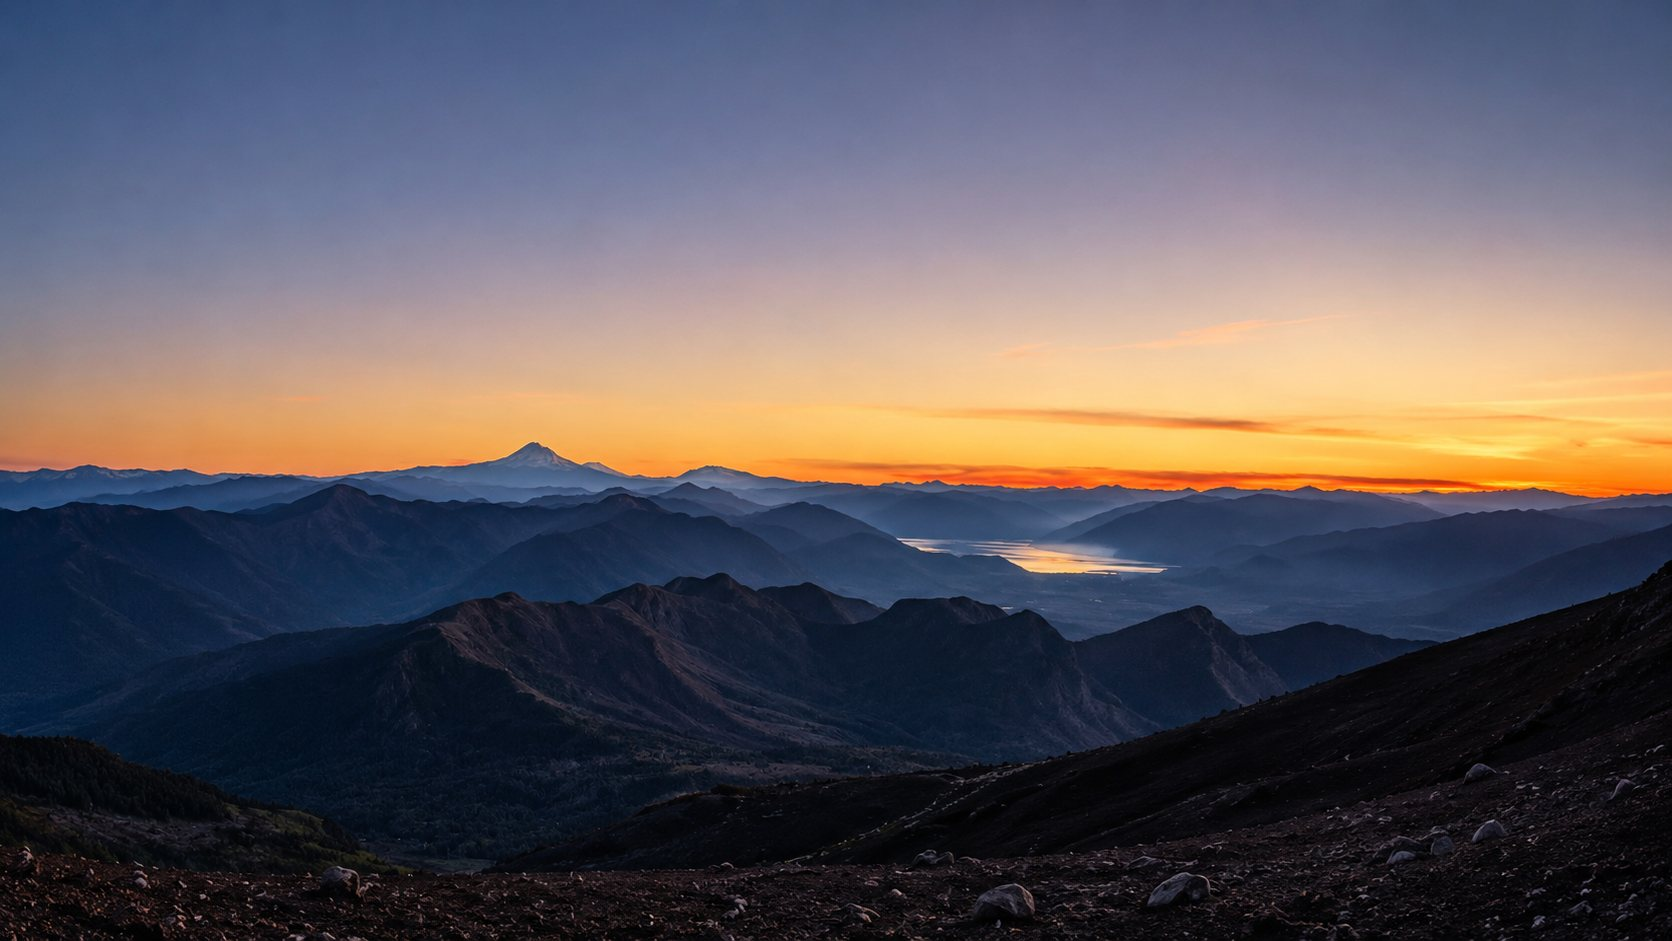
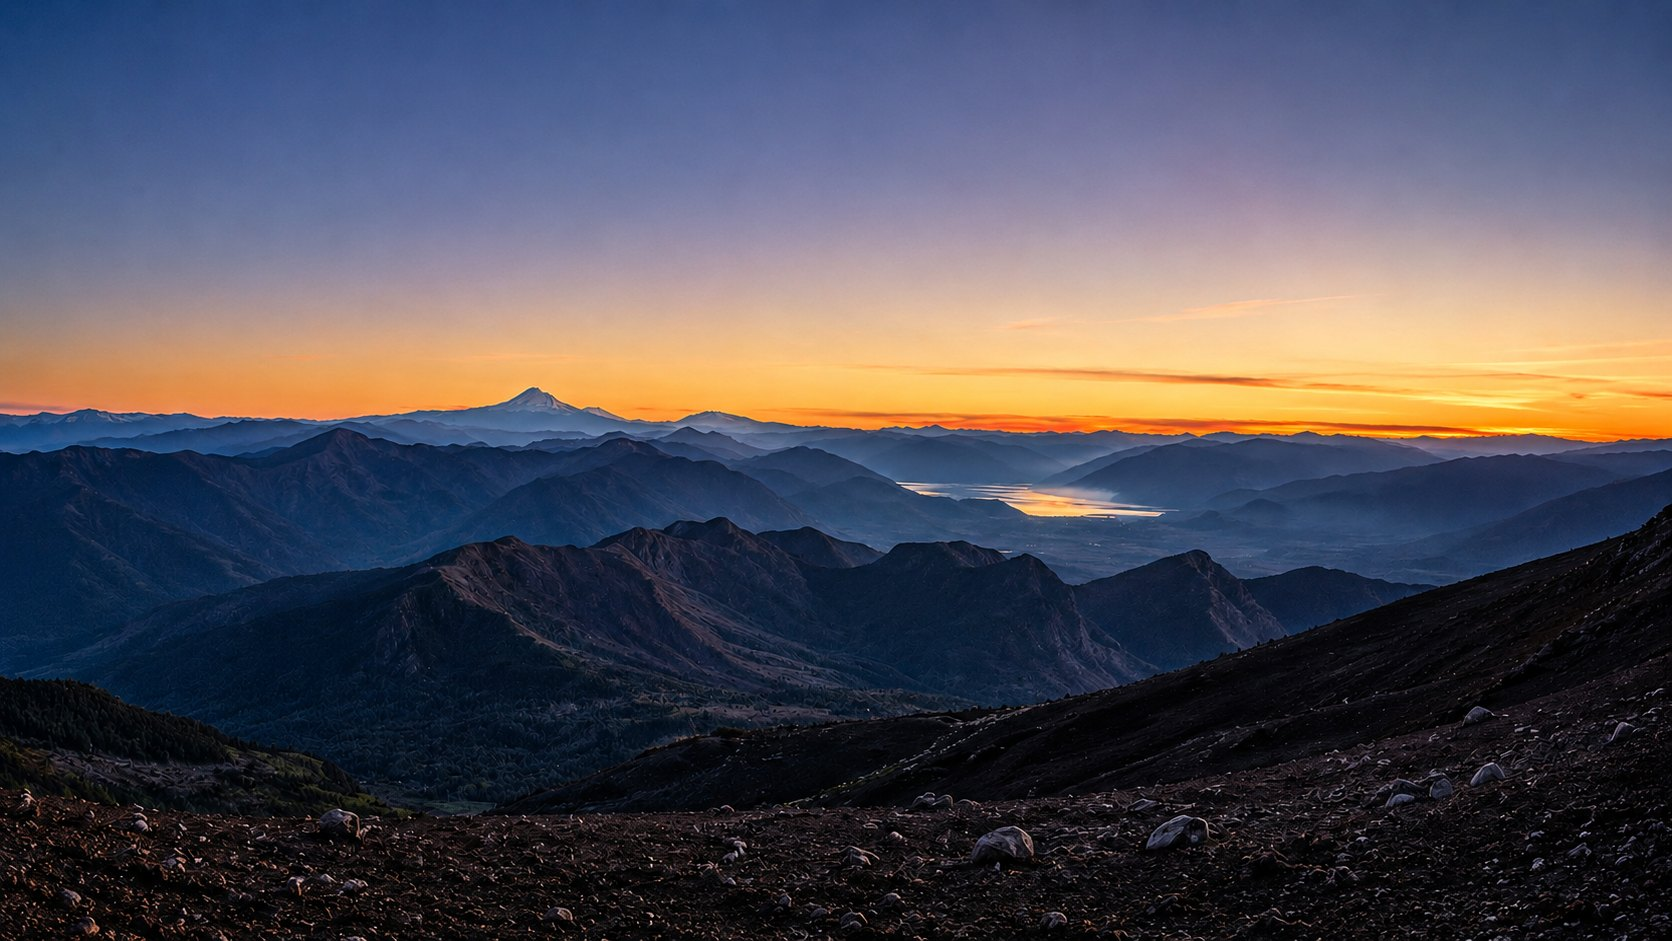
Foto del hero: version reprocesada y recorte centrado en el naranja
- hero-atardecer pasa a la version nueva (misma resolucion 1672x941 pero
  con 2.6x mas detalle fino): se nota sobre todo en escritorio, donde la
  foto se usa a 1.09x
- El recorte de celular pasa de y300-941 a y190-831: la franja naranja
  queda al 37% del alto, entera por encima del texto, y sale del cuadro
  el pedregal del primer plano, que era lo que peor aguantaba el estiron
- Se revierte el intercambio de fotos: el hero vuelve a ser el atardecer
  y la franja del medio vuelve a ser la foto vertical

diff --git a/index.html b/index.html
@@ -24,12 +24,12 @@
 <link rel="apple-touch-icon" href="assets/img/apple-touch-icon.png">
 <link rel="manifest" href="site.webmanifest">
 
-<link rel="preload" as="image" href="assets/img/hero-movil.webp" type="image/webp" media="(max-width:600px)" fetchpriority="high">
+<link rel="preload" as="image" href="assets/img/hero-atardecer-movil.webp" type="image/webp" media="(max-width:600px)" fetchpriority="high">
 <link rel="preload" as="image" href="assets/img/hero-atardecer.webp" type="image/webp" media="(min-width:601px)" fetchpriority="high">
 <link rel="preload" as="font" type="font/woff2" href="assets/fonts/playfair-display-400-normal-latin.woff2" crossorigin>
 <link rel="preload" as="font" type="font/woff2" href="assets/fonts/poppins-300-normal-latin.woff2" crossorigin>
-<link rel="stylesheet" href="assets/css/fonts.css?v=7">
-<link rel="stylesheet" href="assets/css/style.css?v=7">
+<link rel="stylesheet" href="assets/css/fonts.css?v=9">
+<link rel="stylesheet" href="assets/css/style.css?v=9">
 
 <script type="application/ld+json">
 {
@@ -113,11 +113,11 @@
 <!-- ============================ 1. HERO ============================ -->
 <section class="hero" id="inicio">
   <picture>
-    <source media="(max-width:600px)" srcset="assets/img/hero-movil.webp" type="image/webp">
-    <source media="(max-width:600px)" srcset="assets/img/hero-movil.jpg" type="image/jpeg">
+    <source media="(max-width:600px)" srcset="assets/img/hero-atardecer-movil.webp" type="image/webp">
+    <source media="(max-width:600px)" srcset="assets/img/hero-atardecer-movil.jpg" type="image/jpeg">
     <source srcset="assets/img/hero-atardecer.webp" type="image/webp">
     <img class="hero__img" id="heroImg" src="assets/img/hero-atardecer.jpg"
-         alt="" width="1672" height="941" fetchpriority="high">
+         alt="Atardecer sobre las montañas" width="1672" height="941" fetchpriority="high">
   </picture>
   <div class="hero__veil"></div>
   <div class="hero__vignette"></div>
@@ -316,8 +316,6 @@
 <!-- ============================ 5. FOTO PUENTE ============================ -->
 <section class="band" aria-hidden="true">
   <picture>
-    <source media="(max-width:600px)" srcset="assets/img/hero-atardecer.webp" type="image/webp">
-    <source media="(max-width:600px)" srcset="assets/img/hero-atardecer.jpg" type="image/jpeg">
     <source srcset="assets/img/yoga-montana.webp" type="image/webp">
     <img src="assets/img/yoga-montana.jpg" alt="" width="1200" height="1444" loading="lazy">
   </picture>
@@ -551,6 +549,6 @@
   <svg width="31" height="31" viewBox="0 0 24 24" fill="#fff" aria-hidden="true"><path d="M17.472 14.382c-.297-.149-1.758-.867-2.03-.967-.273-.099-.471-.148-.67.15-.197.297-.767.966-.94 1.164-.173.199-.347.223-.644.075-.297-.15-1.255-.463-2.39-1.475-.883-.788-1.48-1.761-1.653-2.059-.173-.297-.018-.458.13-.606.134-.133.298-.347.446-.52.149-.174.198-.298.298-.497.099-.198.05-.372-.025-.521-.075-.149-.669-1.612-.916-2.207-.242-.579-.487-.5-.669-.51l-.57-.01c-.198 0-.52.074-.792.372-.272.297-1.04 1.016-1.04 2.479 0 1.462 1.065 2.875 1.213 3.074.149.198 2.096 3.2 5.077 4.487.709.306 1.262.489 1.694.625.712.227 1.36.195 1.872.118.571-.085 1.758-.719 2.006-1.413.247-.694.247-1.289.173-1.413-.074-.124-.272-.198-.57-.347m-5.421 7.403h-.004a9.87 9.87 0 01-5.031-1.378l-.361-.214-3.741.982.998-3.648-.235-.374a9.86 9.86 0 01-1.51-5.26c.001-5.45 4.436-9.884 9.888-9.884 2.64 0 5.122 1.03 6.988 2.898a9.825 9.825 0 012.893 6.994c-.003 5.45-4.437 9.884-9.885 9.884m8.413-18.297A11.815 11.815 0 0012.05 0C5.495 0 .16 5.335.157 11.892c0 2.096.547 4.142 1.588 5.945L.057 24l6.305-1.654a11.882 11.882 0 005.683 1.448h.005c6.554 0 11.89-5.335 11.893-11.893a11.821 11.821 0 00-3.48-8.413z"></path></svg>
 </a>
 
-<script src="assets/js/main.js?v=7" defer></script>
+<script src="assets/js/main.js?v=9" defer></script>
 </body>
 </html>
